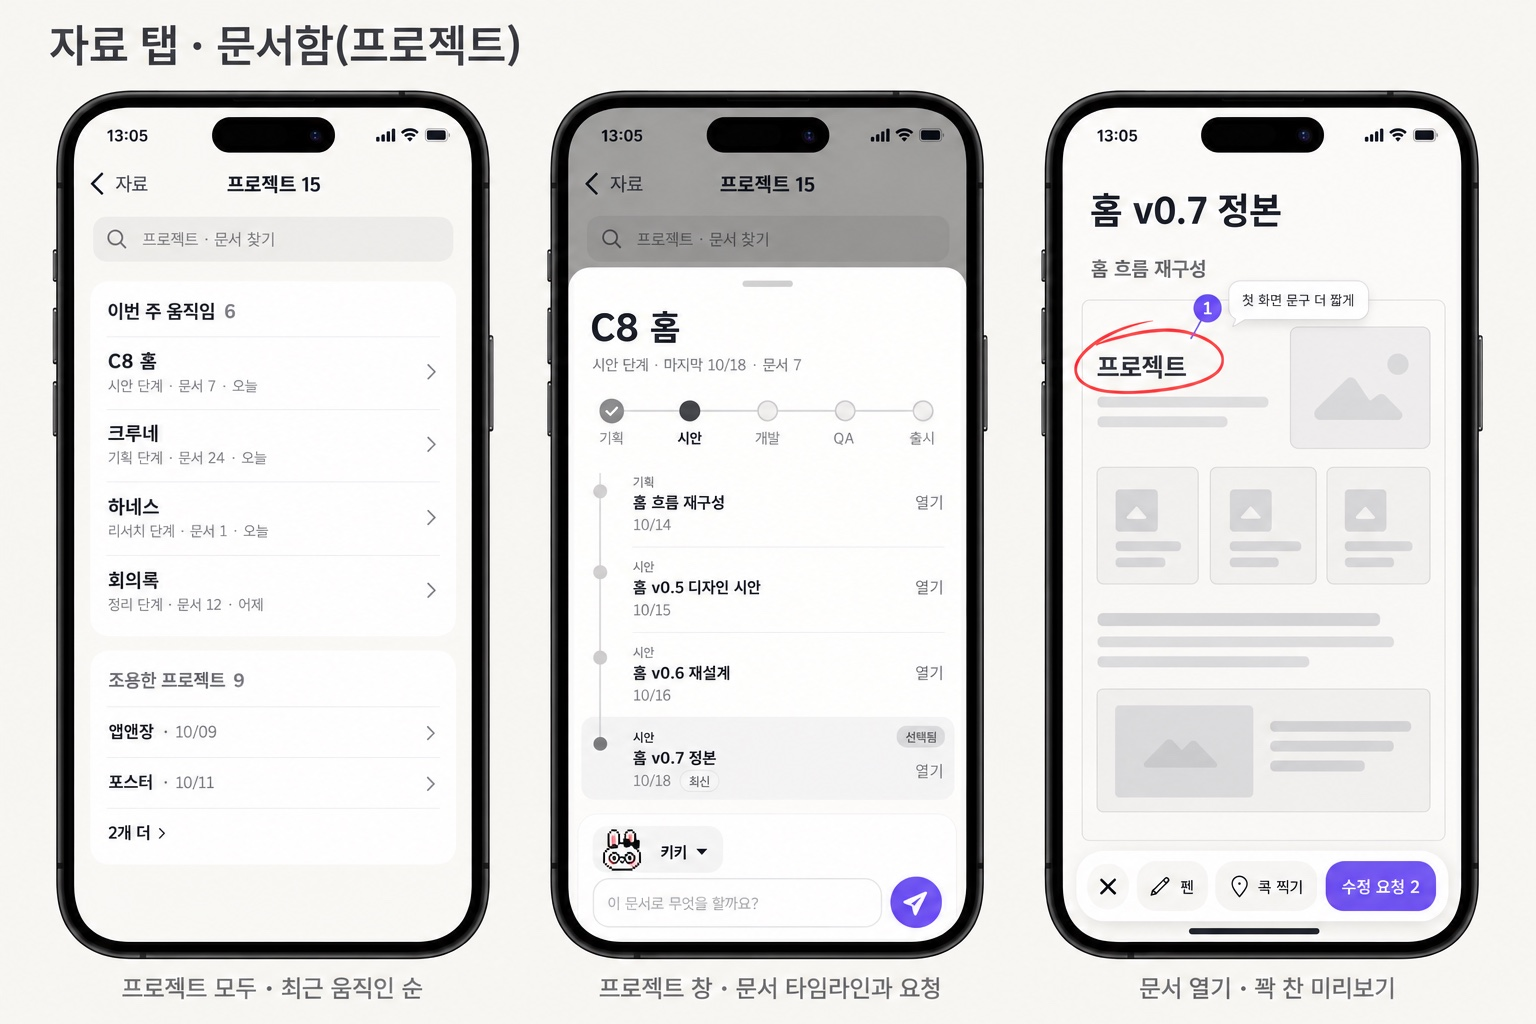
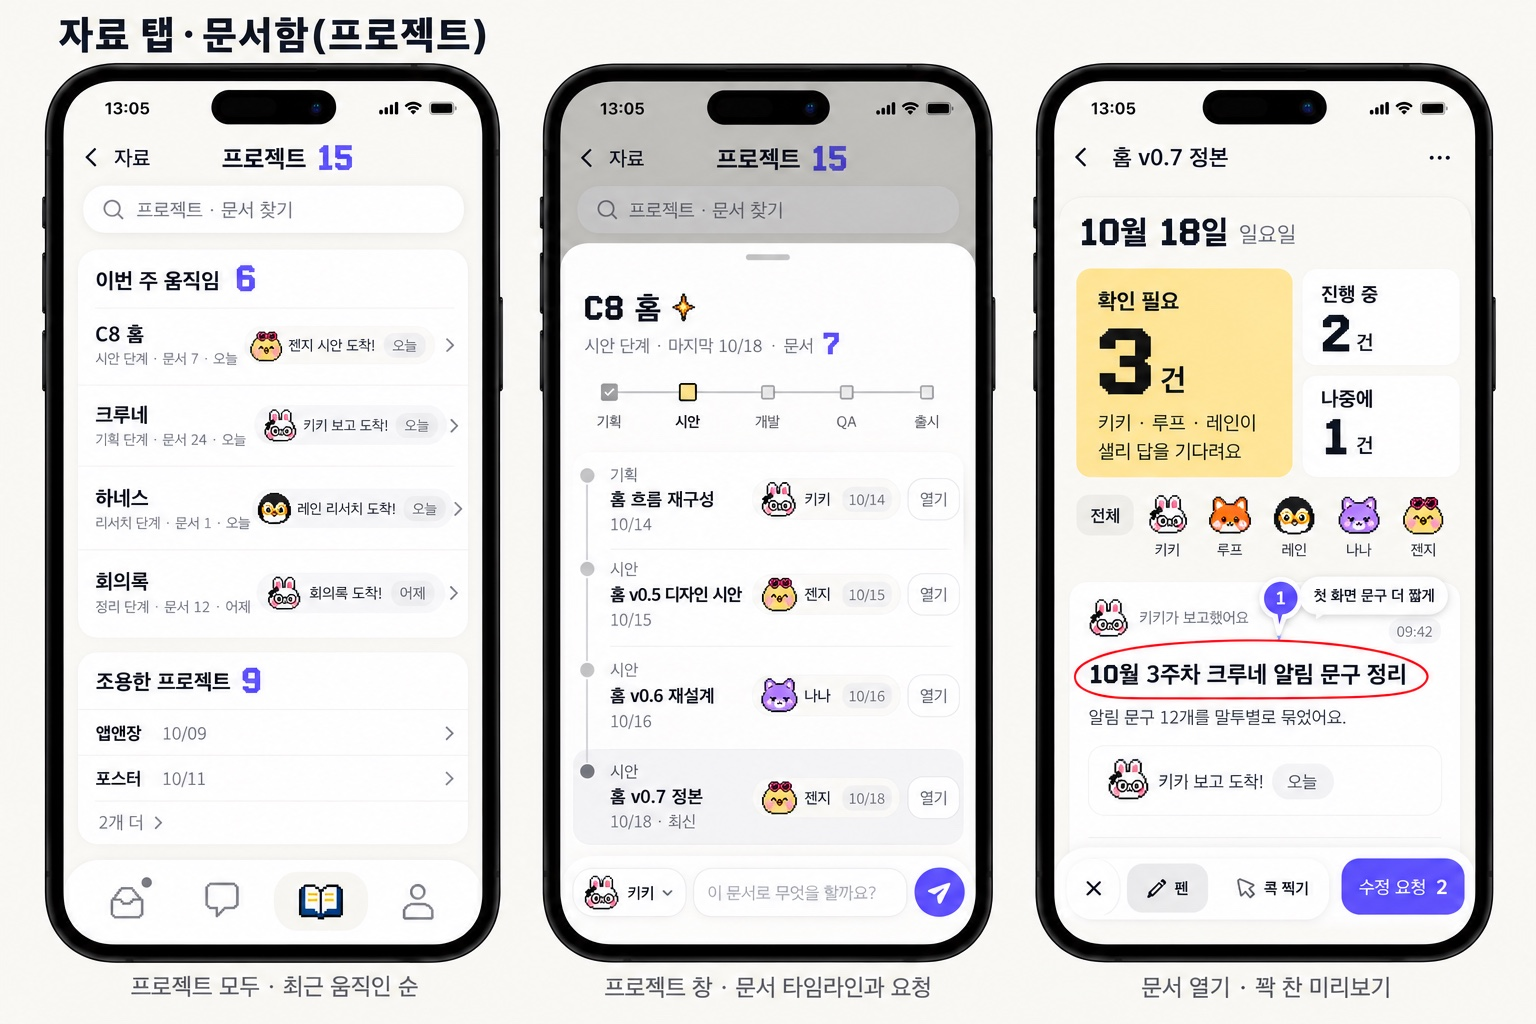
Deploy crewne-pop-mock → public-pages/ (redeploy, 2026-10-18)

diff --git a/crewne-pop-mock/index.html b/crewne-pop-mock/index.html
@@ -70,8 +70,8 @@ footer a{color:inherit}
 
   <section>
     <h2>자료 탭 · 문서함(프로젝트) (최신)</h2>
-    <p class="q">지금의 문서함 보드(칸반·보드/전체 문서·빠른 거르기·대기/완료 표시)를 이 세 화면으로 바꿔요. ① 프로젝트 모두는 최근 움직인 순서로, 「이번 주 움직임」과 「조용한 프로젝트」 두 묶음이에요. ② 프로젝트를 누르면 시트가 올라와요. 자동 단계(기획·시안·개발·QA·출시)와 문서 타임라인이 보이고, 맨 아래에서 받을 크루를 골라 이 문서로 요청해요. ③ 문서를 열면 화면을 꽉 채운 미리보기에서 펜과 콕 찍기로 수정 요청을 남겨요.</p>
-    <figure><img src="img/L3.jpg" alt="문서함 프로젝트"></figure>
+    <p class="q">지금의 문서함 보드(칸반·보드/전체 문서·빠른 거르기·대기/완료 표시)를 이 세 화면으로 바꿔요. ① 프로젝트 모두는 최근 움직인 순서로, 「이번 주 움직임」과 「조용한 프로젝트」 두 묶음이에요. ② 프로젝트를 누르면 시트가 올라와요. 자동 단계(기획·시안·개발·QA·출시)와 문서 타임라인이 보이고, 맨 아래에서 받을 크루를 골라 이 문서로 요청해요. ③ 문서를 열면 화면을 꽉 채운 미리보기에서 펜과 콕 찍기로 수정 요청을 남겨요. 다른 탭처럼 픽셀 숫자, 키키 알약 모양의 「젠지 시안 도착!」 줄, 크루 픽셀 얼굴, 픽셀 단계 점을 넣었어요. (숫자가 보라로 그려졌는데, 앱에서는 먹색으로 넣어요. 보라는 결정 단추와 중요한 글자에만 써요.)</p>
+    <figure><img src="img/L3.jpg?v=2" alt="문서함 프로젝트"></figure>
   </section>
 
   <section>
